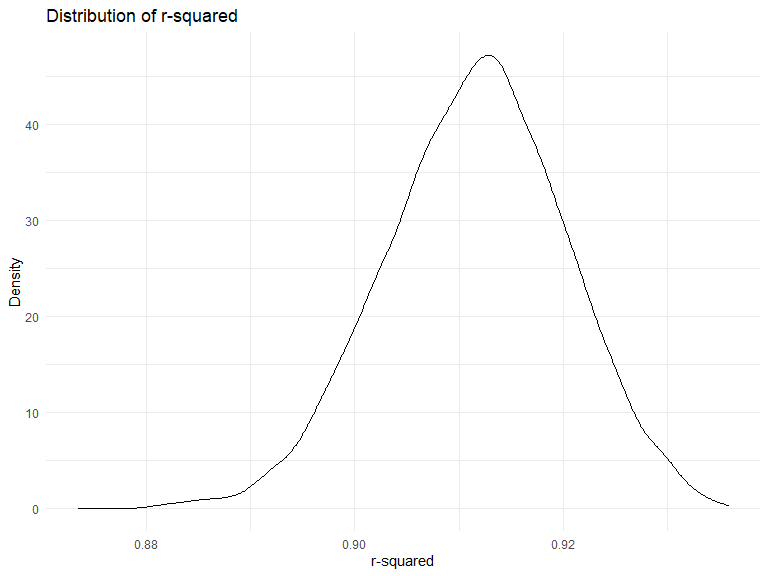
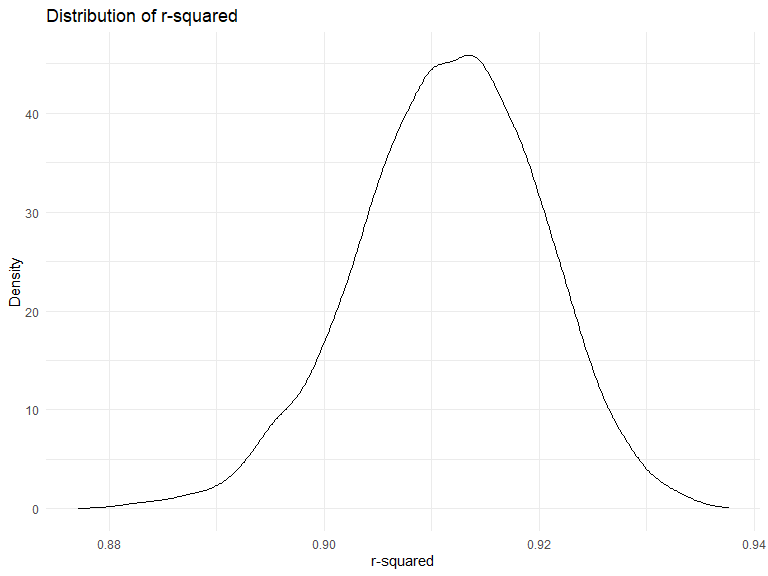
question 3 // finished bootstap operation for r2 and the log

diff --git a/p8105_hw6_sne2114.md b/p8105_hw6_sne2114.md
@@ -325,13 +325,13 @@ cv_df %>% pull(train) %>% .[[1]] %>% as_tibble
      1 2          34      51  3629   177      35 1        39.9 0             13
      2 1          34      48  3062   156      65 2        25.9 0             14
      3 2          36      50  3345   148      85 1        39.9 0             12
-     4 2          34      52  3374   156       5 1        41.6 0             13
-     5 2          33      46  2523   126      96 2        40.3 0             14
-     6 1          36      52  3515   146      85 1        40.3 0             11
-     7 1          33      50  3459   169      75 2        40.7 0             12
-     8 2          35      51  3317   130      55 1        43.4 0             13
-     9 1          35      51  3459   146      55 1        39.4 0             12
-    10 2          35      48  3175   158      75 1        39.7 0             13
+     4 1          34      52  3062   157      55 1        40   0             14
+     5 2          34      52  3374   156       5 1        41.6 0             13
+     6 1          33      52  3374   129      55 1        40.7 0             12
+     7 2          33      46  2523   126      96 2        40.3 0             14
+     8 2          33      49  2778   140       5 1        37.4 0             12
+     9 1          36      52  3515   146      85 1        40.3 0             11
+    10 1          33      50  3459   169      75 2        40.7 0             12
     # ... with 3,463 more rows, and 10 more variables: mheight <dbl>, momage <dbl>,
     #   mrace <fct>, parity <dbl>, pnumlbw <dbl>, pnumsga <dbl>, ppbmi <dbl>,
     #   ppwt <dbl>, smoken <dbl>, wtgain <dbl>
@@ -343,16 +343,16 @@ cv_df %>% pull(test) %>% .[[1]] %>% as_tibble
     # A tibble: 869 x 20
        babysex bhead blength   bwt delwt fincome frace gaweeks malform menarche
        <fct>   <dbl>   <dbl> <dbl> <dbl>   <dbl> <fct>   <dbl> <fct>      <dbl>
-     1 1          34      52  3062   157      55 1        40   0             14
-     2 1          33      52  3374   129      55 1        40.7 0             12
-     3 2          33      49  2778   140       5 1        37.4 0             12
-     4 1          36      53  3629   147      75 1        41.3 0             11
-     5 2          35      53  3345   127      65 2        39.7 0             14
-     6 1          34      52  3203   134      25 1        41.1 0             14
-     7 2          34      51  3005   149      85 1        39.3 0             14
-     8 2          34      51  3232   155      55 1        41.6 0             15
+     1 2          35      53  3345   127      65 2        39.7 0             14
+     2 1          34      52  3203   134      25 1        41.1 0             14
+     3 2          36      56  3685   170      95 1        40.3 0             12
+     4 1          38      53  3799   167      75 1        39.9 0             12
+     5 2          34      54  3345   130      95 1        42.1 0             10
+     6 2          35      53  3600   141      35 1        42.3 0             14
+     7 2          34      49  2948   135      75 1        42.7 0             12
+     8 2          34      49  3033   128      25 1        41.1 0             12
      9 1          34      53  3232   150      35 1        39.6 0             12
-    10 1          34      52  3033   172      85 1        41.1 0             16
+    10 2          34      51  3203   132      85 1        43.7 0             13
     # ... with 859 more rows, and 10 more variables: mheight <dbl>, momage <dbl>,
     #   mrace <fct>, parity <dbl>, pnumlbw <dbl>, pnumsga <dbl>, ppbmi <dbl>,
     #   ppwt <dbl>, smoken <dbl>, wtgain <dbl>
@@ -438,43 +438,42 @@ weather_df
     # ... with 355 more rows
 
 ``` r
-bootstrap_r2 = 
+bootstrap_df = 
   weather_df %>%
-  bootstrap(n = 5000) %>% 
-    mutate(
-      models = map(.x = strap, ~lm(tmax ~ tmin, data = .x)),
-      results = map(models, broom::glance)
-    ) %>% 
-    select(-strap, -models) %>% 
-    unnest(results)
+  bootstrap(5000, id = "strap_id") %>%
+  mutate(
+    models = map(.x = strap, ~lm(tmax ~ tmin, data = .x)),
+    results_1 = map(models, broom::glance),
+    results_2 = map(models, broom::tidy)
+    ) %>%
+  select(strap_id, results_1, results_2) %>%
+  unnest(results_1, results_2) %>%
+  pivot_wider(
+    names_from = term, 
+    values_from = estimate
+    ) %>%
+  group_by(strap_id) %>%
+  summarise_each(funs(first(.[!is.na(.)]))) %>%
+  rename(intercept = '(Intercept)') %>%
+  mutate(
+    LOG = log(intercept * tmin)
+    ) %>%
+  select(strap_id, r.squared, intercept, tmin, LOG)
 
-bootstrap_r2
+bootstrap_df
 ```
 
-    # A tibble: 5,000 x 13
-       .id   r.squared adj.r.squared sigma statistic   p.value    df logLik   AIC
-       <chr>     <dbl>         <dbl> <dbl>     <dbl>     <dbl> <dbl>  <dbl> <dbl>
-     1 0001      0.921         0.921  2.86     4244. 2.29e-202     1  -901. 1807.
-     2 0002      0.911         0.910  3.00     3703. 1.57e-192     1  -918. 1841.
-     3 0003      0.910         0.910  2.93     3682. 3.99e-192     1  -909. 1825.
-     4 0004      0.919         0.919  2.92     4139. 1.51e-200     1  -907. 1821.
-     5 0005      0.920         0.920  2.83     4196. 1.53e-201     1  -897. 1800.
-     6 0006      0.908         0.908  2.92     3593. 2.36e-190     1  -908. 1822.
-     7 0007      0.907         0.907  2.89     3539. 2.83e-189     1  -905. 1815.
-     8 0008      0.915         0.914  2.97     3885. 5.68e-196     1  -914. 1835.
-     9 0009      0.910         0.910  2.89     3682. 4.11e-192     1  -904. 1814.
-    10 0010      0.911         0.911  2.93     3724. 6.35e-193     1  -910. 1826.
-    # ... with 4,990 more rows, and 4 more variables: BIC <dbl>, deviance <dbl>,
-    #   df.residual <int>, nobs <int>
-
-``` r
-bootstrap_r2 %>% 
-  ggplot(aes(x = r.squared)) +
-  geom_density() +
-  labs(
-   title = "Distribution of r-squared",
-   x = "r-squared",
-   y = "Density")
-```
-
-<img src="p8105_hw6_sne2114_files/figure-gfm/unnamed-chunk-10-1.png" width="90%" />
+    # A tibble: 5,000 x 5
+       strap_id r.squared intercept  tmin   LOG
+       <chr>        <dbl>     <dbl> <dbl> <dbl>
+     1 0001         0.904      7.04  1.04  1.99
+     2 0002         0.920      7.35  1.03  2.02
+     3 0003         0.914      7.34  1.02  2.01
+     4 0004         0.906      7.30  1.04  2.02
+     5 0005         0.920      6.99  1.05  1.99
+     6 0006         0.910      7.45  1.03  2.04
+     7 0007         0.911      6.81  1.08  1.99
+     8 0008         0.921      6.98  1.04  1.99
+     9 0009         0.912      6.92  1.08  2.01
+    10 0010         0.917      7.44  1.03  2.04
+    # ... with 4,990 more rows
